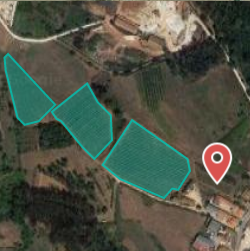
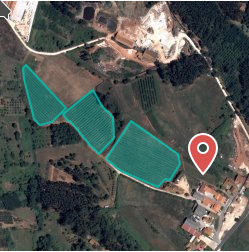
Change providers, add attributtion

diff --git a/demo/App.tsx b/demo/App.tsx
@@ -1,46 +1,35 @@
-import React from "react";
-import { StaticMap, TileProvider } from "../src";
-import { rosaMP, rosaMarker1 } from "./res/rosa";
-import { paraguayOverlay, paraguayMP, paraguayMarkers } from "./res/paraguay";
-import { holedMP } from "./res/holed";
-
-const gmaps: TileProvider = {
-  url: "http://mt{s}.google.com/vt/lyrs=s&hl=en&x={x}&y={y}&z={z}",
-  size: 256,
-  subdomains: ["0", "1", "2", "3"],
-  zoomRange: { min: 1, max: 21 },
-};
+import React from 'react';
+import { StaticMap } from '../src';
+import { rosaMP, rosaMarker1 } from './res/rosa';
+import { paraguayOverlay, paraguayMP, paraguayMarkers } from './res/paraguay';
+import { holedMP } from './res/holed';
+import { esriWorldImageryTileProvider, osmTileProvider } from '../src/tileProvider';
 
 function App() {
   return (
     <div className="App">
+      <h4>Marquers and overlay</h4>
       <StaticMap
         width={345}
         height={138}
         padding={[10, 10]}
-        tileProvider={gmaps}
+        tileProvider={esriWorldImageryTileProvider}
         bbox={paraguayOverlay.bbox}
         multiPolygons={[paraguayMP]}
         overlayImages={[paraguayOverlay]}
         markers={paraguayMarkers}
       />
-      <div></div>
+      <h4>MultiPolygon and Marker</h4>
       <StaticMap
         width={250}
         height={250}
         padding={[5, 5]}
-        tileProvider={gmaps}
+        tileProvider={esriWorldImageryTileProvider}
         multiPolygons={[rosaMP]}
         markers={[rosaMarker1]}
       />
-      <div></div>
-      <StaticMap
-        width={300}
-        height={300}
-        padding={[20, 20]}
-        tileProvider={gmaps}
-        multiPolygons={[holedMP]}
-      />
+      <h4>Holed Polygon</h4>
+      <StaticMap width={300} height={300} padding={[20, 20]} tileProvider={osmTileProvider} multiPolygons={[holedMP]} />
     </div>
   );
 }

diff --git a/src/utils.ts b/src/utils.ts
@@ -8,6 +8,9 @@ export const noop = <T>(x: T) => x;
 
 export const infinitBBox: BBox = [Infinity, Infinity, -Infinity, -Infinity];
 
+export const defaultZoomRange = { min: 1, max: 21 };
+export const defaultSize = 256;
+
 export function bboxExtended(bbox: BBox, [lng, lat]: LngLat): BBox {
   return [Math.min(bbox[0], lng), Math.min(bbox[1], lat), Math.max(bbox[2], lng), Math.max(bbox[3], lat)];
 }
@@ -36,12 +39,13 @@ export function getMapBBox({ bbox = infinitBBox, multiPolygons, overlayImages, m
 
         const x = lonToX(m.coord[0], zoom);
         const y = latToY(m.coord[1], zoom);
+        const size = tileProvider?.size ?? defaultSize;
 
         bbox = bboxJoin(bbox, [
-          xToLon(x - ePx[0] / tileProvider!.size, zoom),
-          yToLat(y + ePx[1] / tileProvider!.size, zoom),
-          xToLon(x + ePx[0] / tileProvider!.size, zoom),
-          yToLat(y - ePx[3] / tileProvider!.size, zoom),
+          xToLon(x - ePx[0] / size, zoom),
+          yToLat(y + ePx[1] / size, zoom),
+          xToLon(x + ePx[0] / size, zoom),
+          yToLat(y - ePx[3] / size, zoom),
         ]);
       });
     }
@@ -58,7 +62,7 @@ export function getMapBBox({ bbox = infinitBBox, multiPolygons, overlayImages, m
  * calculate the best zoom level for given extent
  */
 export function calculateZoom(op: Pick<StaticMapCtx, 'bbox' | 'width' | 'height' | 'padding' | 'tileProvider'>): [number, number, BBox] {
-  const { zoomRange, size } = op.tileProvider;
+  const { zoomRange = defaultZoomRange, size = defaultSize } = op.tileProvider;
   const widthPad = op.width - op.padding[0] * 2;
   const heightPad = op.height - op.padding[1] * 2;
   let bbox = op.bbox;

diff --git a/src/utils.test.ts b/src/utils.test.ts
@@ -1,0 +1,60 @@
+import { bboxExtended, bboxJoin, getMapBBox, calculateZoom, getCenter } from './utils';
+import { LngLat, BBox } from './types';
+import { MultiPolygon } from './MultiPolygon';
+import { osmTileProvider } from './tileProvider';
+
+const bBox: BBox = [-8.9, 38.5, -8.9, 38.5];
+const bBox2: BBox = [-10.8, 48.5, -10.8, 48.5];
+
+const polygonCoords: MultiPolygon = {
+  coords: [
+    [
+      [
+        [-8.92, 38.56],
+        [-8.93, 38.55],
+        [-8.94, 38.58],
+        [-8.92, 38.56],
+      ],
+    ],
+  ],
+};
+
+describe('Utils tests', () => {
+  it('should extend bbox', () => {
+    const lngLat: LngLat = [-4.123456, 5.654321];
+
+    expect(bboxExtended(bBox, lngLat)).toStrictEqual([-8.9, 5.654321, -4.123456, 38.5]);
+  });
+  it('should join bboxes', () => {
+    expect(bboxJoin(bBox, bBox2)).toStrictEqual([-10.8, 38.5, -8.9, 48.5]);
+  });
+  it('should get mapBBox', () => {
+    const zoom = 5;
+    const width = 200;
+    const height = 50;
+
+    expect(getMapBBox({ multiPolygons: [polygonCoords], tileProvider: osmTileProvider, width, height }, zoom)).toStrictEqual([
+      -8.94,
+      38.55,
+      -8.92,
+      38.58,
+    ]);
+  });
+
+  it('should calculate zoom', () => {
+    const width = 250;
+    const height = 50;
+    const padding = [5, 5] as [number, number];
+
+    expect(calculateZoom({ bbox: bBox, width, height, padding, tileProvider: osmTileProvider })).toStrictEqual([
+      21,
+      1,
+      [-8.9, 38.5, -8.9, 38.5],
+    ]);
+  });
+  it('should get center', () => {
+    const zoom = 7;
+
+    expect(getCenter(bBox, zoom)).toStrictEqual([60.83555555555555, 49.14688989969177]);
+  });
+});

diff --git a/src/StaticMap.tsx b/src/StaticMap.tsx
@@ -9,15 +9,26 @@ function reducer(state: StaticMapsState, _action: any): StaticMapsState {
 interface StaticMapProps extends StaticMapOptions {
   className?: string;
   style?: React.CSSProperties;
+  onMouseMove?: React.MouseEventHandler<SVGSVGElement>;
+  onMouseLeave?: React.MouseEventHandler<SVGSVGElement>;
 }
 
-export function StaticMap({ className, style, ...props }: StaticMapProps) {
+export function StaticMap({ className, style, onMouseMove, onMouseLeave, ...props }: StaticMapProps) {
   const [ctx] = useReducer(reducer, props, createStaticMap);
 
-  const { width, height, viewBox, tiles, multiPolygons, overlayImages, markers } = ctx;
+  const { width, height, viewBox, tiles, multiPolygons, overlayImages, markers, tileProvider } = ctx;
 
   return (
-    <svg width={width} height={height} viewBox={viewBox} className={className} style={style}>
+    <svg
+      width={width}
+      height={height}
+      viewBox={viewBox}
+      className={className}
+      style={style}
+      onMouseMove={onMouseMove}
+      onMouseLeave={onMouseLeave}
+    >
+      <title>{tileProvider.attribution}</title>
       {tiles.map((t, i) => (
         <image key={i} {...t} />
       ))}

diff --git a/src/tileProvider.ts b/src/tileProvider.ts
@@ -1,16 +1,18 @@
 import { TileProvider } from './types';
 
+/**
+ * Example Tile providers.
+ * Providers can be adapted from leaflet https://leaflet-extras.github.io/leaflet-providers/preview/
+ */
+
 export const osmTileProvider: TileProvider = {
   url: 'https://tile.openstreetmap.org/{z}/{x}/{y}.png',
-  size: 256,
-  subdomains: [],
-  reverseY: false,
-  zoomRange: { min: 1, max: 17 },
+  zoomRange: { min: 1, max: 19 },
+  attribution: '© OpenStreetMap contributors',
 };
 
-export const gmapsTileProvider: TileProvider = {
-  url: 'https://mt{s}.google.com/vt/lyrs=s&hl=en&x={x}&y={y}&z={z}',
-  size: 256,
-  subdomains: ['0', '1', '2', '3'],
-  zoomRange: { min: 1, max: 21 },
+export const esriWorldImageryTileProvider: TileProvider = {
+  url: 'https://server.arcgisonline.com/ArcGIS/rest/services/World_Imagery/MapServer/tile/{z}/{y}/{x}',
+  attribution:
+    'Tiles © Esri — Source: Esri, i-cubed, USDA, USGS, AEX, GeoEye, Getmapping, Aerogrid, IGN, IGP, UPR-EGP, and the GIS User Community',
 };

diff --git a/src/Tile.ts b/src/Tile.ts
@@ -1,9 +1,10 @@
 /* eslint-disable no-bitwise */
 import { StaticMapCtx, RenderedImage } from './types';
 import { xToPx, yToPx } from './geo';
+import { defaultSize } from './utils';
 
 export function processTiles(map: StaticMapCtx): RenderedImage[] {
-  const { size, url, subdomains } = map.tileProvider;
+  const { size = defaultSize, url, subdomains } = map.tileProvider;
   const xMin = Math.floor(map.center[0] - (0.5 * map.width) / size);
   const yMin = Math.floor(map.center[1] - (0.5 * map.height) / size);
   const xMax = Math.ceil(map.center[0] + (0.5 * map.width) / size);

diff --git a/src/createStaticMap.ts b/src/createStaticMap.ts
@@ -1,4 +1,4 @@
-import { calculateZoom, getCenter } from './utils';
+import { calculateZoom, defaultSize, getCenter } from './utils';
 import { StaticMapOptions, StaticMapCtx, StaticMapsState } from './types';
 import { processMultiPolygon } from './MultiPolygon';
 import { processOverlayImage } from './OverlayImage';
@@ -28,7 +28,7 @@ export function createStaticMap(cprops: StaticMapOptions): StaticMapsState {
     height,
     padding,
     tileProvider,
-    tileSize: tileProvider.size,
+    tileSize: tileProvider.size ?? defaultSize,
     bbox,
     zoom,
     res,

diff --git a/src/index.ts b/src/index.ts
@@ -1,6 +1,6 @@
 export { createStaticMap } from './createStaticMap';
 export { StaticMap } from './StaticMap';
-export { osmTileProvider, gmapsTileProvider } from './tileProvider';
+export * from './tileProvider';
 export { polyFromBBox } from './helpers';
 export type { RenderedImage, LngLat, BBox, StaticMapOptions as StaticMapProps, StaticMapsState, TileProvider } from './types';
 export type { Marker, RenderedMarker } from './Marker';

diff --git a/src/types.ts b/src/types.ts
@@ -8,10 +8,11 @@ export type BBox = [number, number, number, number];
 
 export interface TileProvider {
   url: string;
-  size: number;
+  size?: number;
   subdomains?: string[];
   reverseY?: boolean;
-  zoomRange: { min: number; max: number };
+  zoomRange?: { min: number; max: number };
+  attribution?: string;
 }
 
 export interface RenderedImage {

diff --git a/demo/index.css b/demo/index.css
@@ -11,3 +11,7 @@ code {
   font-family: source-code-pro, Menlo, Monaco, Consolas, 'Courier New',
     monospace;
 }
+
+.App{
+  text-align: center;
+}
